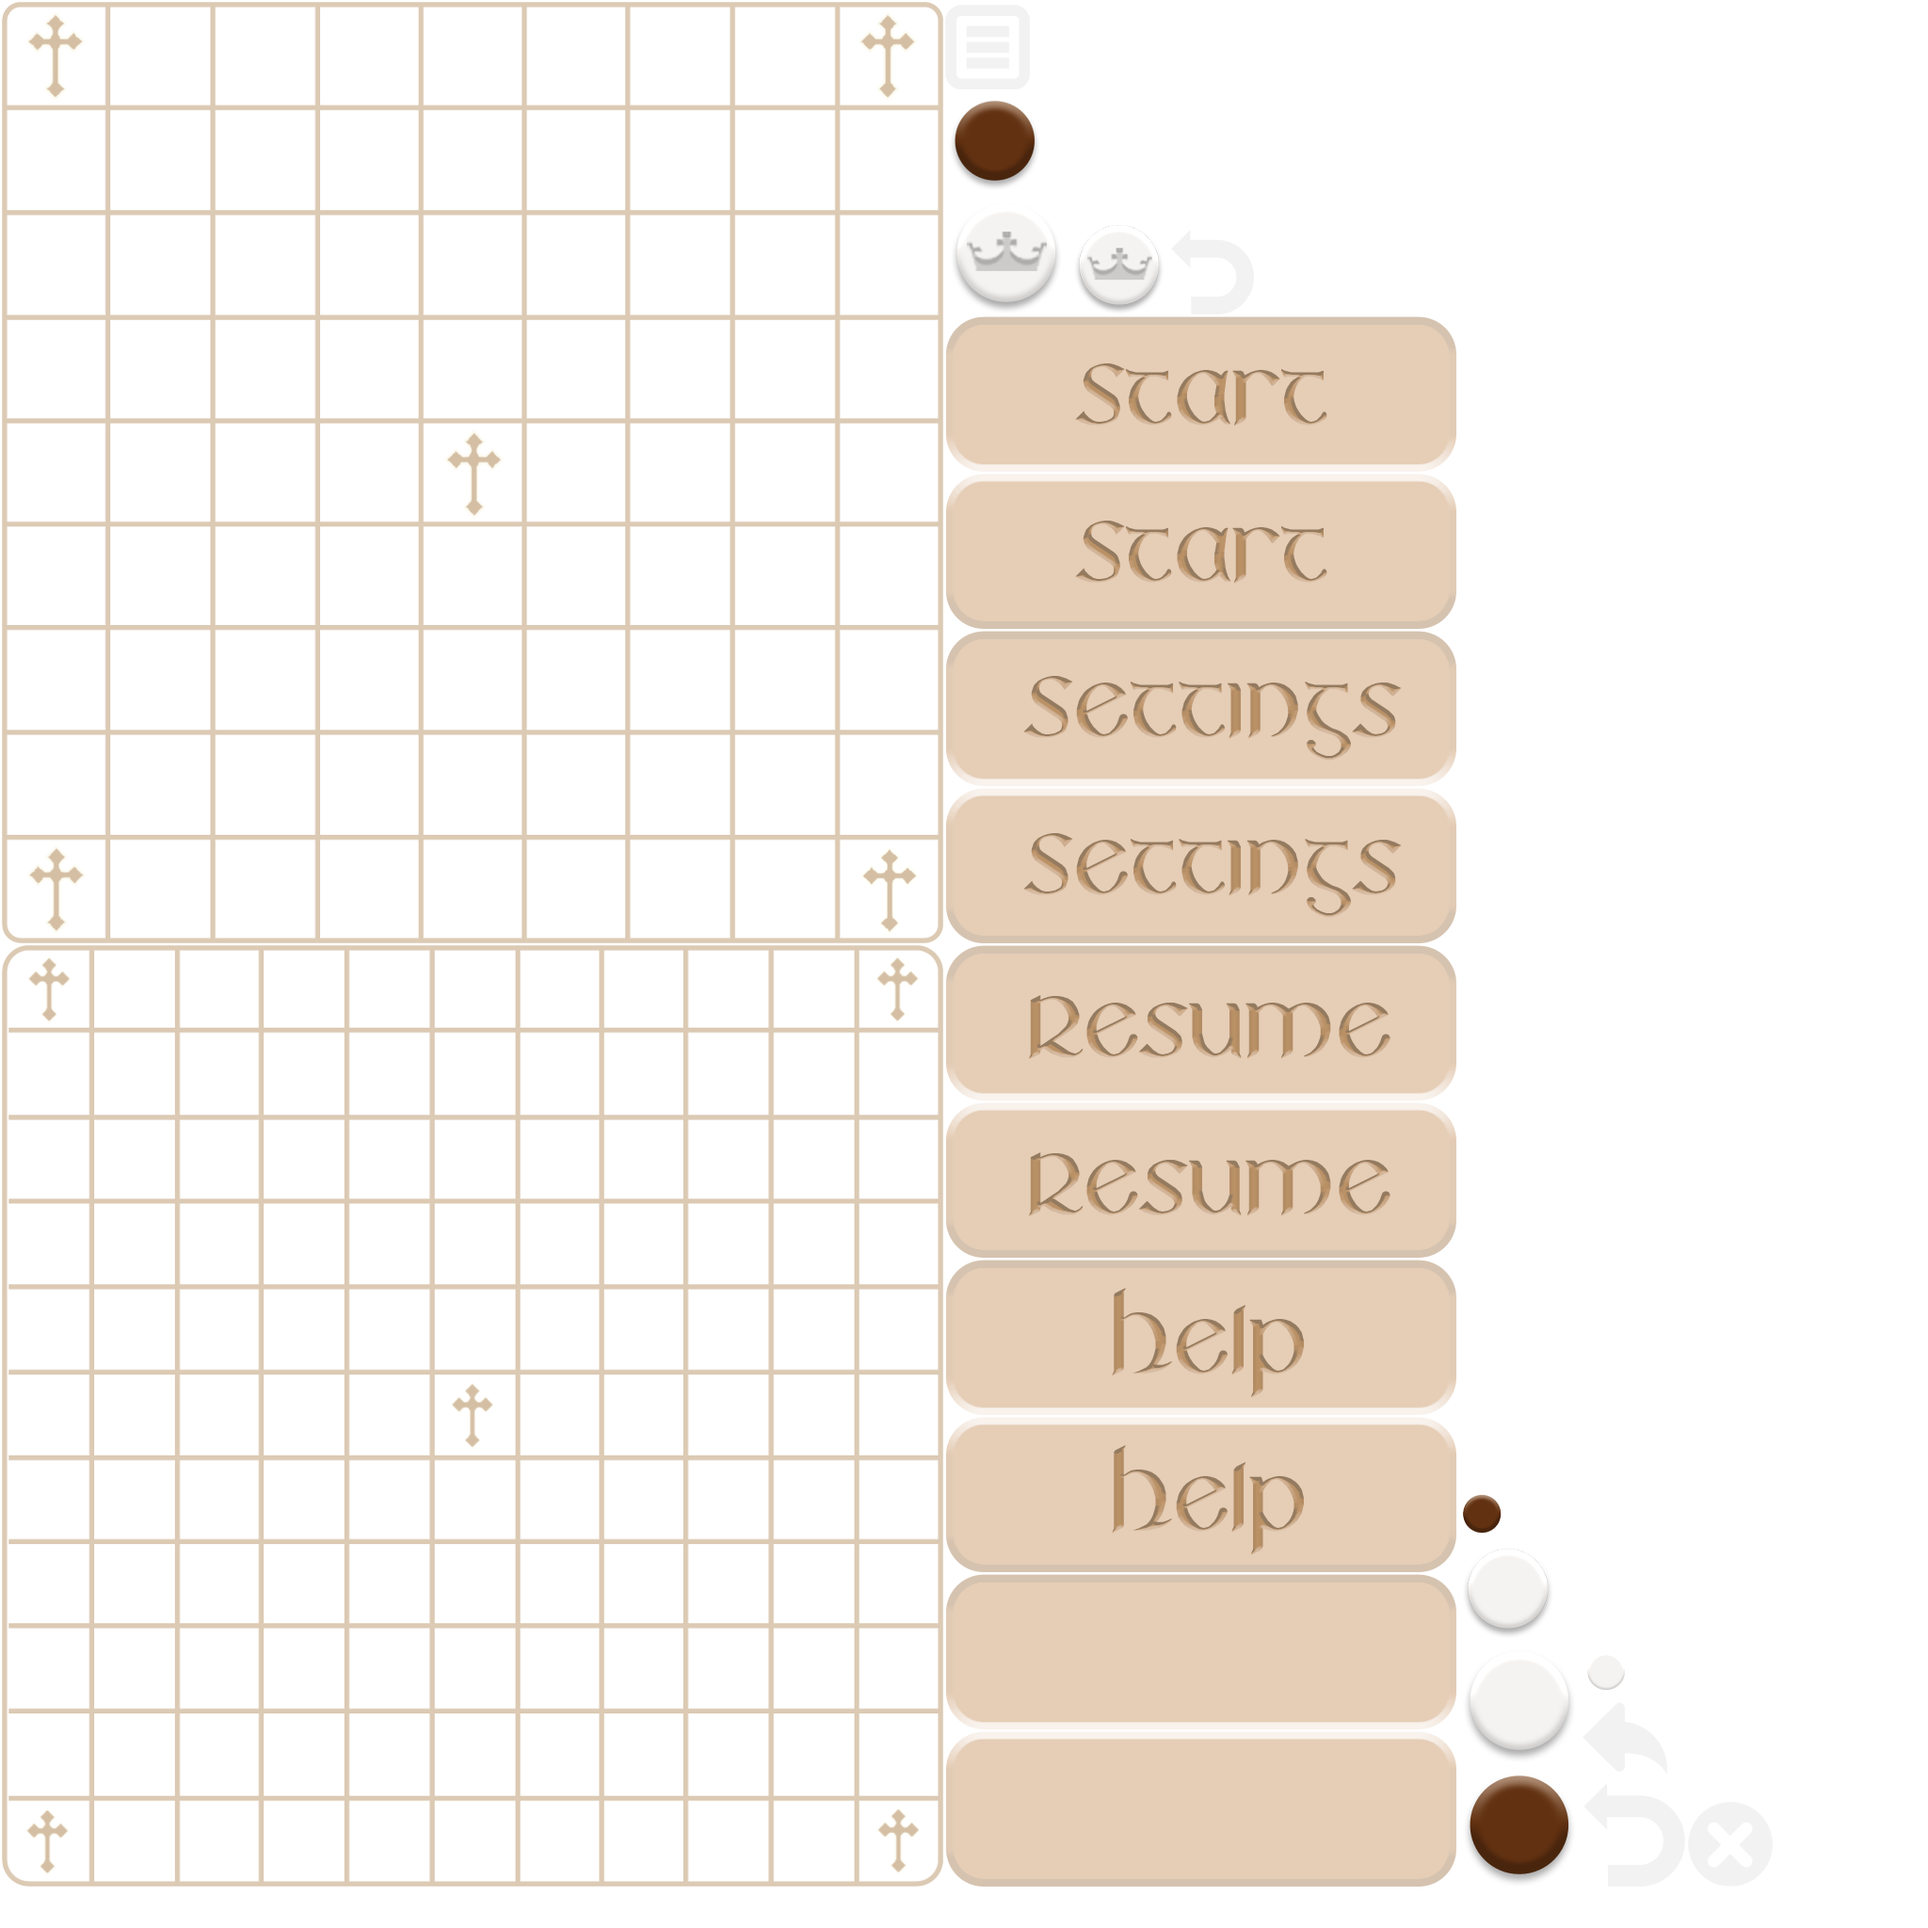
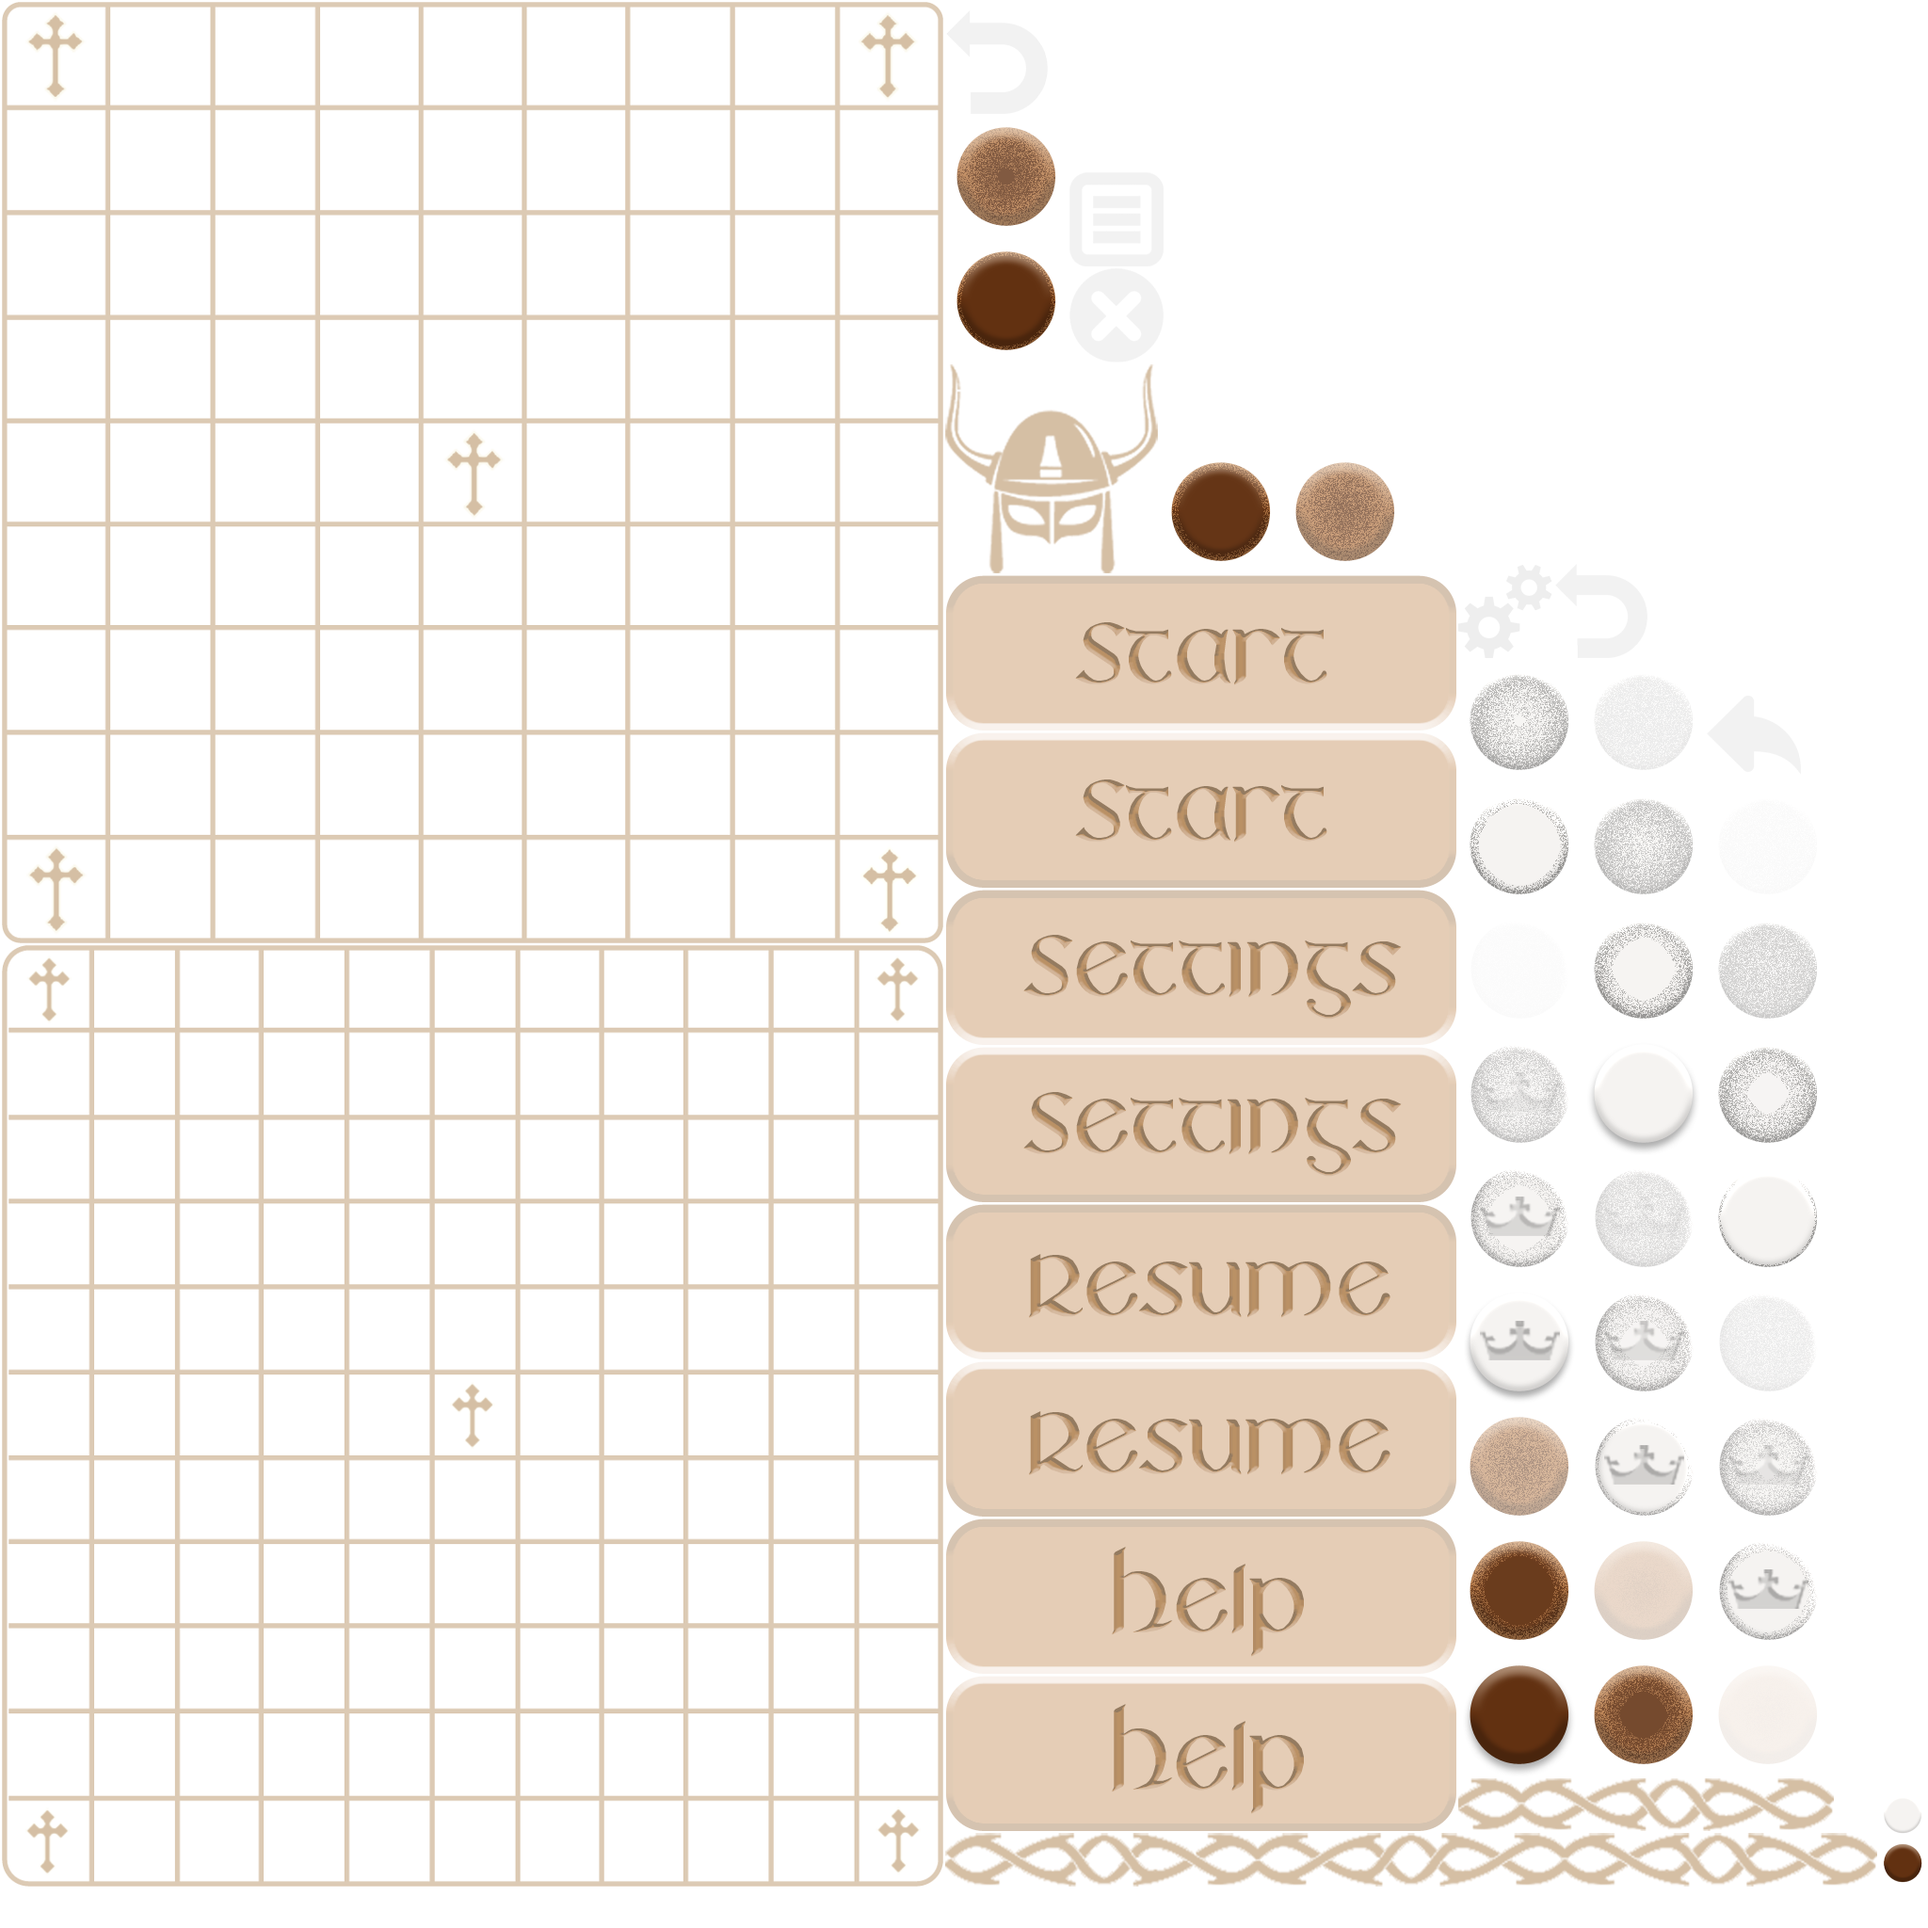
Standardizing pieces. Adding better capture animation.

Changed region(s): [[0.4688, 0.0312, 1.0, 1.0], [0.9062, 0.625, 0.9375, 0.6562], [0.4688, 0.625, 0.5, 0.6562]]

diff --git a/core/src/main/java/com/captstudios/games/tafl/core/es/systems/passive/EntityFactorySystem.java b/core/src/main/java/com/captstudios/games/tafl/core/es/systems/passive/EntityFactorySystem.java
@@ -9,6 +9,7 @@ import com.badlogic.gdx.graphics.g2d.Animation;
 import com.badlogic.gdx.math.Vector2;
 import com.captstudios.games.tafl.core.consts.Assets;
 import com.captstudios.games.tafl.core.consts.Constants;
+import com.captstudios.games.tafl.core.enums.BoardType;
 import com.captstudios.games.tafl.core.enums.CellHighlightGroup;
 import com.captstudios.games.tafl.core.es.TaflWorld;
 import com.captstudios.games.tafl.core.es.components.render.AnimationComponent;
@@ -59,18 +60,20 @@ public class EntityFactorySystem extends PassiveEntitySystem {
 
         String graphic;
         if (match.board.kingBitBoard().get(cellId)) {
-            graphic = match.board.boardType.kingPiece;
+            graphic = Assets.Graphics.KING_PIECE;
         } else if (team == Constants.BoardConstants.WHITE_TEAM) {
-            graphic = match.board.boardType.whitePiece;
+            graphic = Assets.Graphics.WHITE_PIECE;
         } else {
-            graphic = match.board.boardType.blackPiece;
+            graphic = Assets.Graphics.BLACK_PIECE;
         }
 
 
         DrawableComponent dc = componentFactory.createDrawableComponent(Assets.Graphics.ATLAS_PIECES, graphic);
         e.addComponent(dc);
-        //        e.addComponent(componentFactory.createScalingComponent(
-        //                Constants.PieceConstants.SCALING, Constants.PieceConstants.SCALING));
+        if (match.board.boardType == BoardType.BOARD_SIZE_11_11) {
+            e.addComponent(componentFactory.createScalingComponent(
+                    Constants.PieceConstants.SCALING_11, Constants.PieceConstants.SCALING_11));
+        }
 
         e.addToWorld();
         return e;
@@ -101,17 +104,32 @@ public class EntityFactorySystem extends PassiveEntitySystem {
 
 
 
-    public Entity createCaptureAnimation(Vector2 position) {
+    public Entity createCaptureAnimation(TaflMatch match, int cellId) {
         Entity e = world.createEntity();
 
+        Vector2 position = match.board.getCellPositionCenter(cellId);
         e.addComponent(componentFactory.createPositionComponent(position));
 
+        String graphic;
+        if (match.board.kingBitBoard().get(cellId)) {
+            graphic = Assets.Graphics.KING_PIECE_CAPTURE;
+        } else if (match.turn == Constants.BoardConstants.WHITE_TEAM) {
+            graphic = Assets.Graphics.BLACK_PIECE_CAPTURE;
+        } else {
+            graphic = Assets.Graphics.WHITE_PIECE_CAPTURE;
+        }
+
         AnimationComponent ac = componentFactory.createAnimationComponent(
-                Assets.Graphics.EXPLOSION_ATLAS,
-                Assets.Graphics.EXPLOSION,
+                Assets.Graphics.ATLAS_PIECES,
+                graphic,
                 Animation.NORMAL,
                 Constants.PieceConstants.CAPTURE_FRAME_DURATION);
+
         e.addComponent(ac);
+        if (match.board.boardType == BoardType.BOARD_SIZE_11_11) {
+            e.addComponent(componentFactory.createScalingComponent(
+                    Constants.PieceConstants.SCALING_11, Constants.PieceConstants.SCALING_11));
+        }
 
         e.addToWorld();
         return e;

diff --git a/core/src/main/java/com/captstudios/games/tafl/core/consts/Assets.java b/core/src/main/java/com/captstudios/games/tafl/core/consts/Assets.java
@@ -46,15 +46,14 @@ public class Assets extends GameAssetLoader {
         public static final String INSTRUCTIONS_5 = "tafl-instr-screen05";
         public static final String INSTRUCTIONS_6 = "tafl-instr-screen06";
 
-        public static final String GRID_11 = "tafl-grid-11x11";
-        public static final String WHITE_PIECE_11 = "tafl-piece-light-11x11";
-        public static final String KING_PIECE_11 = "tafl-piece-king-11x11";
-        public static final String BLACK_PIECE_11 = "tafl-piece-dark-11x11";
-
         public static final String GRID_9 = "tafl-grid-9x9";
-        public static final String WHITE_PIECE_9 = "tafl-piece-light-9x9";
-        public static final String KING_PIECE_9 = "tafl-piece-king-9x9";
-        public static final String BLACK_PIECE_9 = "tafl-piece-dark-9x9";
+        public static final String GRID_11 = "tafl-grid-11x11";
+        public static final String WHITE_PIECE = "tafl-piece-light";
+        public static final String WHITE_PIECE_CAPTURE = "tafl-piece-light-capture";
+        public static final String KING_PIECE = "tafl-piece-king";
+        public static final String KING_PIECE_CAPTURE = "tafl-piece-king-capture";
+        public static final String BLACK_PIECE = "tafl-piece-dark";
+        public static final String BLACK_PIECE_CAPTURE = "tafl-piece-dark-capture";
 
         public static final String BLACK_ICON = "tafl-piece-dark-icon";
         public static final String WHITE_ICON = "tafl-piece-light-icon";
@@ -66,8 +65,9 @@ public class Assets extends GameAssetLoader {
         public static final String CLOSE_ICON = "tafl-menu-icon-close";
         public static final String HINT_ICON = "tafl-menu-icon-undo";
 
-        public static final String EXPLOSION_ATLAS = "image-atlases/explosion.atlas";
-        public static final String EXPLOSION = "explosion";
+        public static final String BOTTOM_BRAID = "tafl-braid-bottom";
+        public static final String HALF_BRAID = "tafl-braid-half";
+        //public static final String HALF_BRAID = "";
     }
 
     public static final class Skin {
@@ -201,8 +201,7 @@ public class Assets extends GameAssetLoader {
 
         graphicsService.loadTextureAtlases(
                 game.deviceSettings.backgroundAtlas,
-                Assets.Graphics.ATLAS_PIECES,
-                Assets.Graphics.EXPLOSION_ATLAS);
+                Assets.Graphics.ATLAS_PIECES);
 
         graphicsService.loadFonts(Assets.Fonts.FONT_DESTKOP_MENU,
                 Assets.Fonts.FONT_DESTKOP_SCREEN_TITLE,

diff --git a/core/src/main/java/com/captstudios/games/tafl/core/enums/BoardType.java b/core/src/main/java/com/captstudios/games/tafl/core/enums/BoardType.java
@@ -8,9 +8,6 @@ import com.captstudios.games.tafl.core.consts.Constants;
 public enum BoardType {
     BOARD_SIZE_11_11(
             Assets.Graphics.GRID_11,
-            Assets.Graphics.WHITE_PIECE_11,
-            Assets.Graphics.KING_PIECE_11,
-            Assets.Graphics.BLACK_PIECE_11,
             Constants.PieceConstants.TILE_SIZE_11,
             Constants.PieceConstants.BOARD_FRAME_WIDTH_11,
             Constants.PieceConstants.CELL_HORIZONTAL_OFFSET_11,
@@ -21,9 +18,6 @@ public enum BoardType {
             Constants.AiConstants.ADVANCED_TREE_DEPTH_11),
             BOARD_SIZE_9_9(
                     Assets.Graphics.GRID_9,
-                    Assets.Graphics.WHITE_PIECE_9,
-                    Assets.Graphics.KING_PIECE_9,
-                    Assets.Graphics.BLACK_PIECE_9,
                     Constants.PieceConstants.TILE_SIZE_9,
                     Constants.PieceConstants.BOARD_FRAME_WIDTH_9,
                     Constants.PieceConstants.CELL_HORIZONTAL_OFFSET_9,
@@ -34,9 +28,6 @@ public enum BoardType {
                     Constants.AiConstants.ADVANCED_TREE_DEPTH_9);
 
     public String grid;
-    public String whitePiece;
-    public String kingPiece;
-    public String blackPiece;
 
     public float tileSize;
     public float halfTile;
@@ -52,9 +43,6 @@ public enum BoardType {
 
     private BoardType(
             String grid,
-            String whitePiece,
-            String kingPiece,
-            String blackPiece,
             float tileSize,
             float borderWidth,
             float cellXOffset,
@@ -64,9 +52,6 @@ public enum BoardType {
             int intermediateDepth,
             int advancedDepth) {
         this.grid = grid;
-        this.whitePiece = whitePiece;
-        this.kingPiece = kingPiece;
-        this.blackPiece = blackPiece;
 
         this.tileSize = tileSize;
         this.halfTile = tileSize / 2;

diff --git a/core/src/main/java/com/captstudios/games/tafl/core/es/systems/interaction/PieceCaptureSystem.java b/core/src/main/java/com/captstudios/games/tafl/core/es/systems/interaction/PieceCaptureSystem.java
@@ -4,7 +4,6 @@ import com.artemis.ComponentMapper;
 import com.artemis.Entity;
 import com.artemis.Filter;
 import com.artemis.systems.event.EventProcessingSystem;
-import com.badlogic.gdx.math.Vector2;
 import com.captstudios.games.tafl.core.consts.Constants;
 import com.captstudios.games.tafl.core.es.components.singleton.MatchComponent;
 import com.captstudios.games.tafl.core.es.model.TaflMatch;
@@ -47,8 +46,7 @@ public class PieceCaptureSystem extends EventProcessingSystem<PieceCaptureEvent>
 
         for (int i = event.move.capturedPieces.nextSetBit(0); i >= 0; i = event.move.capturedPieces.nextSetBit(i+1)) {
             highlightSystem.clearCellHighlights(i);
-            Vector2 position = component.match.board.getCellPositionCenter(i);
-            efs.createCaptureAnimation(position);
+            efs.createCaptureAnimation(component.match, i);
         }
         component.match.board.undoStack.peek().capturedPieces.set(event.move.capturedPieces);
         changeTurn(component.match);

diff --git a/core/src/main/java/com/captstudios/games/tafl/core/consts/Constants.java b/core/src/main/java/com/captstudios/games/tafl/core/consts/Constants.java
@@ -155,7 +155,7 @@ public final class Constants {
         private PieceConstants() {
         }
 
-        public static final float CAPTURE_FRAME_DURATION = 0.05f;
+        public static final float CAPTURE_FRAME_DURATION = .1f;
         public static final int PIECE_SPEED = 400;
 
         public static final float TILE_SIZE_11 = 95.8f;
@@ -187,7 +187,7 @@ public final class Constants {
             54, 64, 74,
             78, 70, 62
         };
-
+        public static final float SCALING_11 = TILE_SIZE_11 / TILE_SIZE_9;
     }
 
     public static final class BoardConstants {
